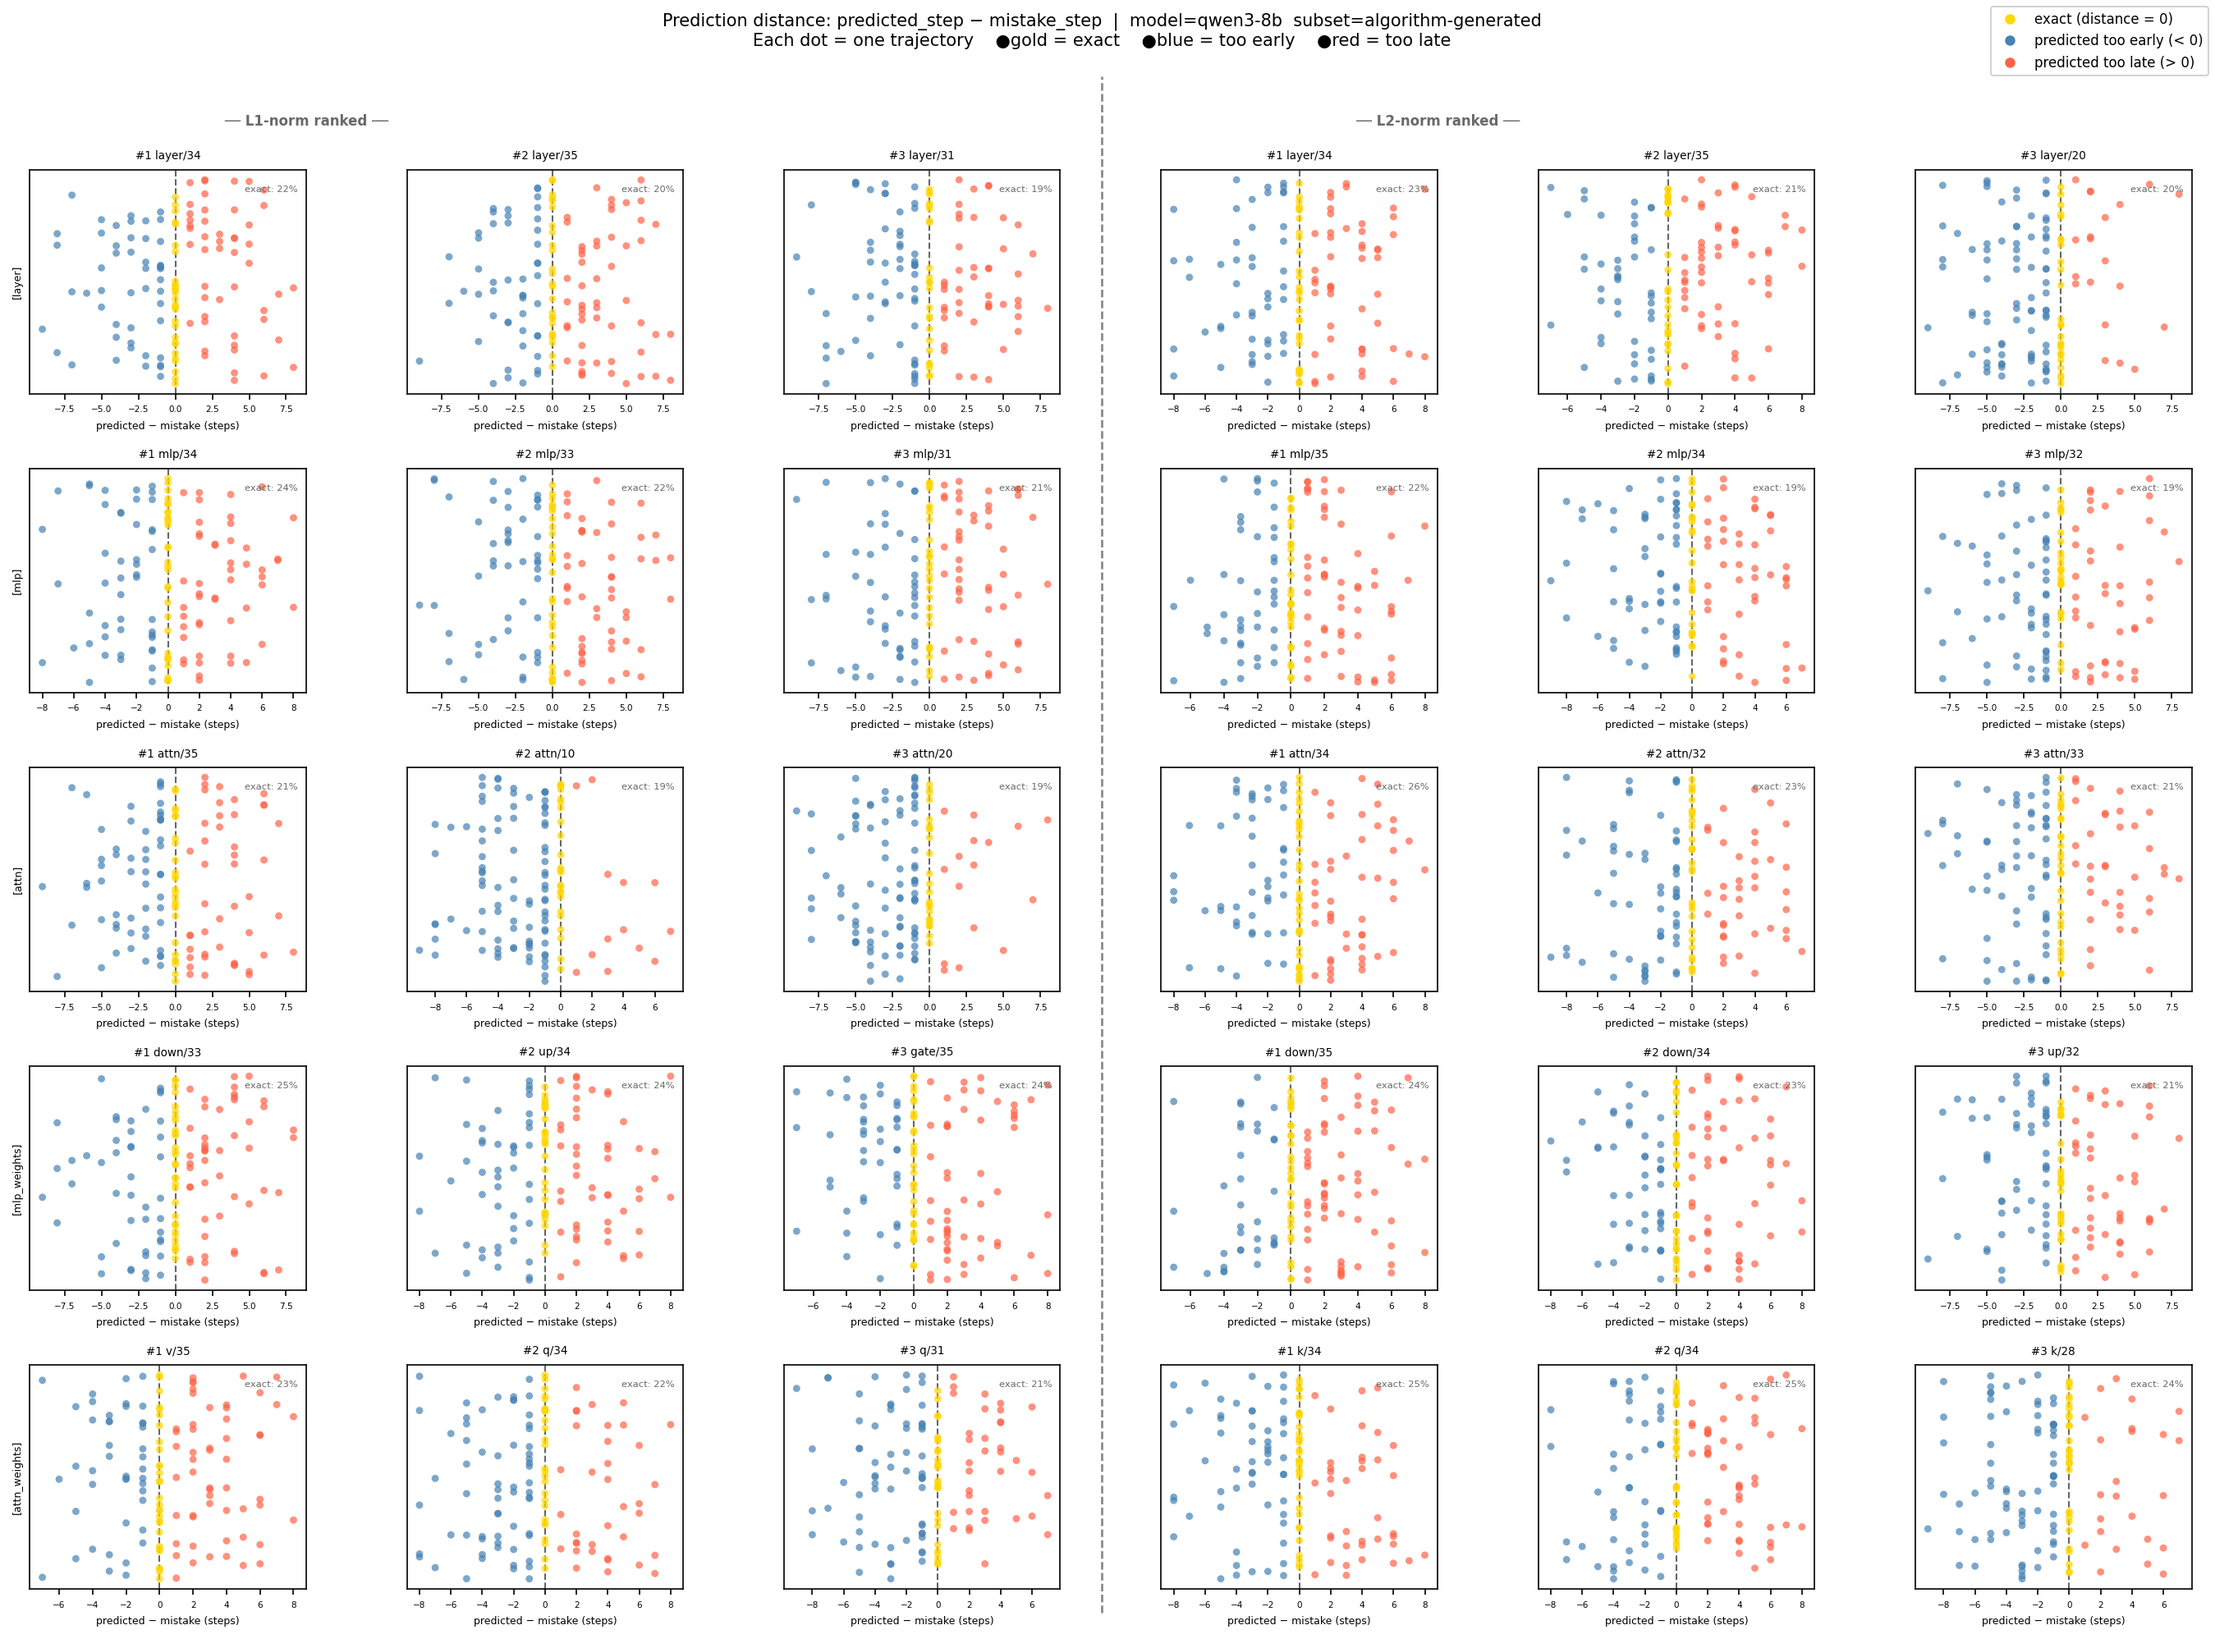
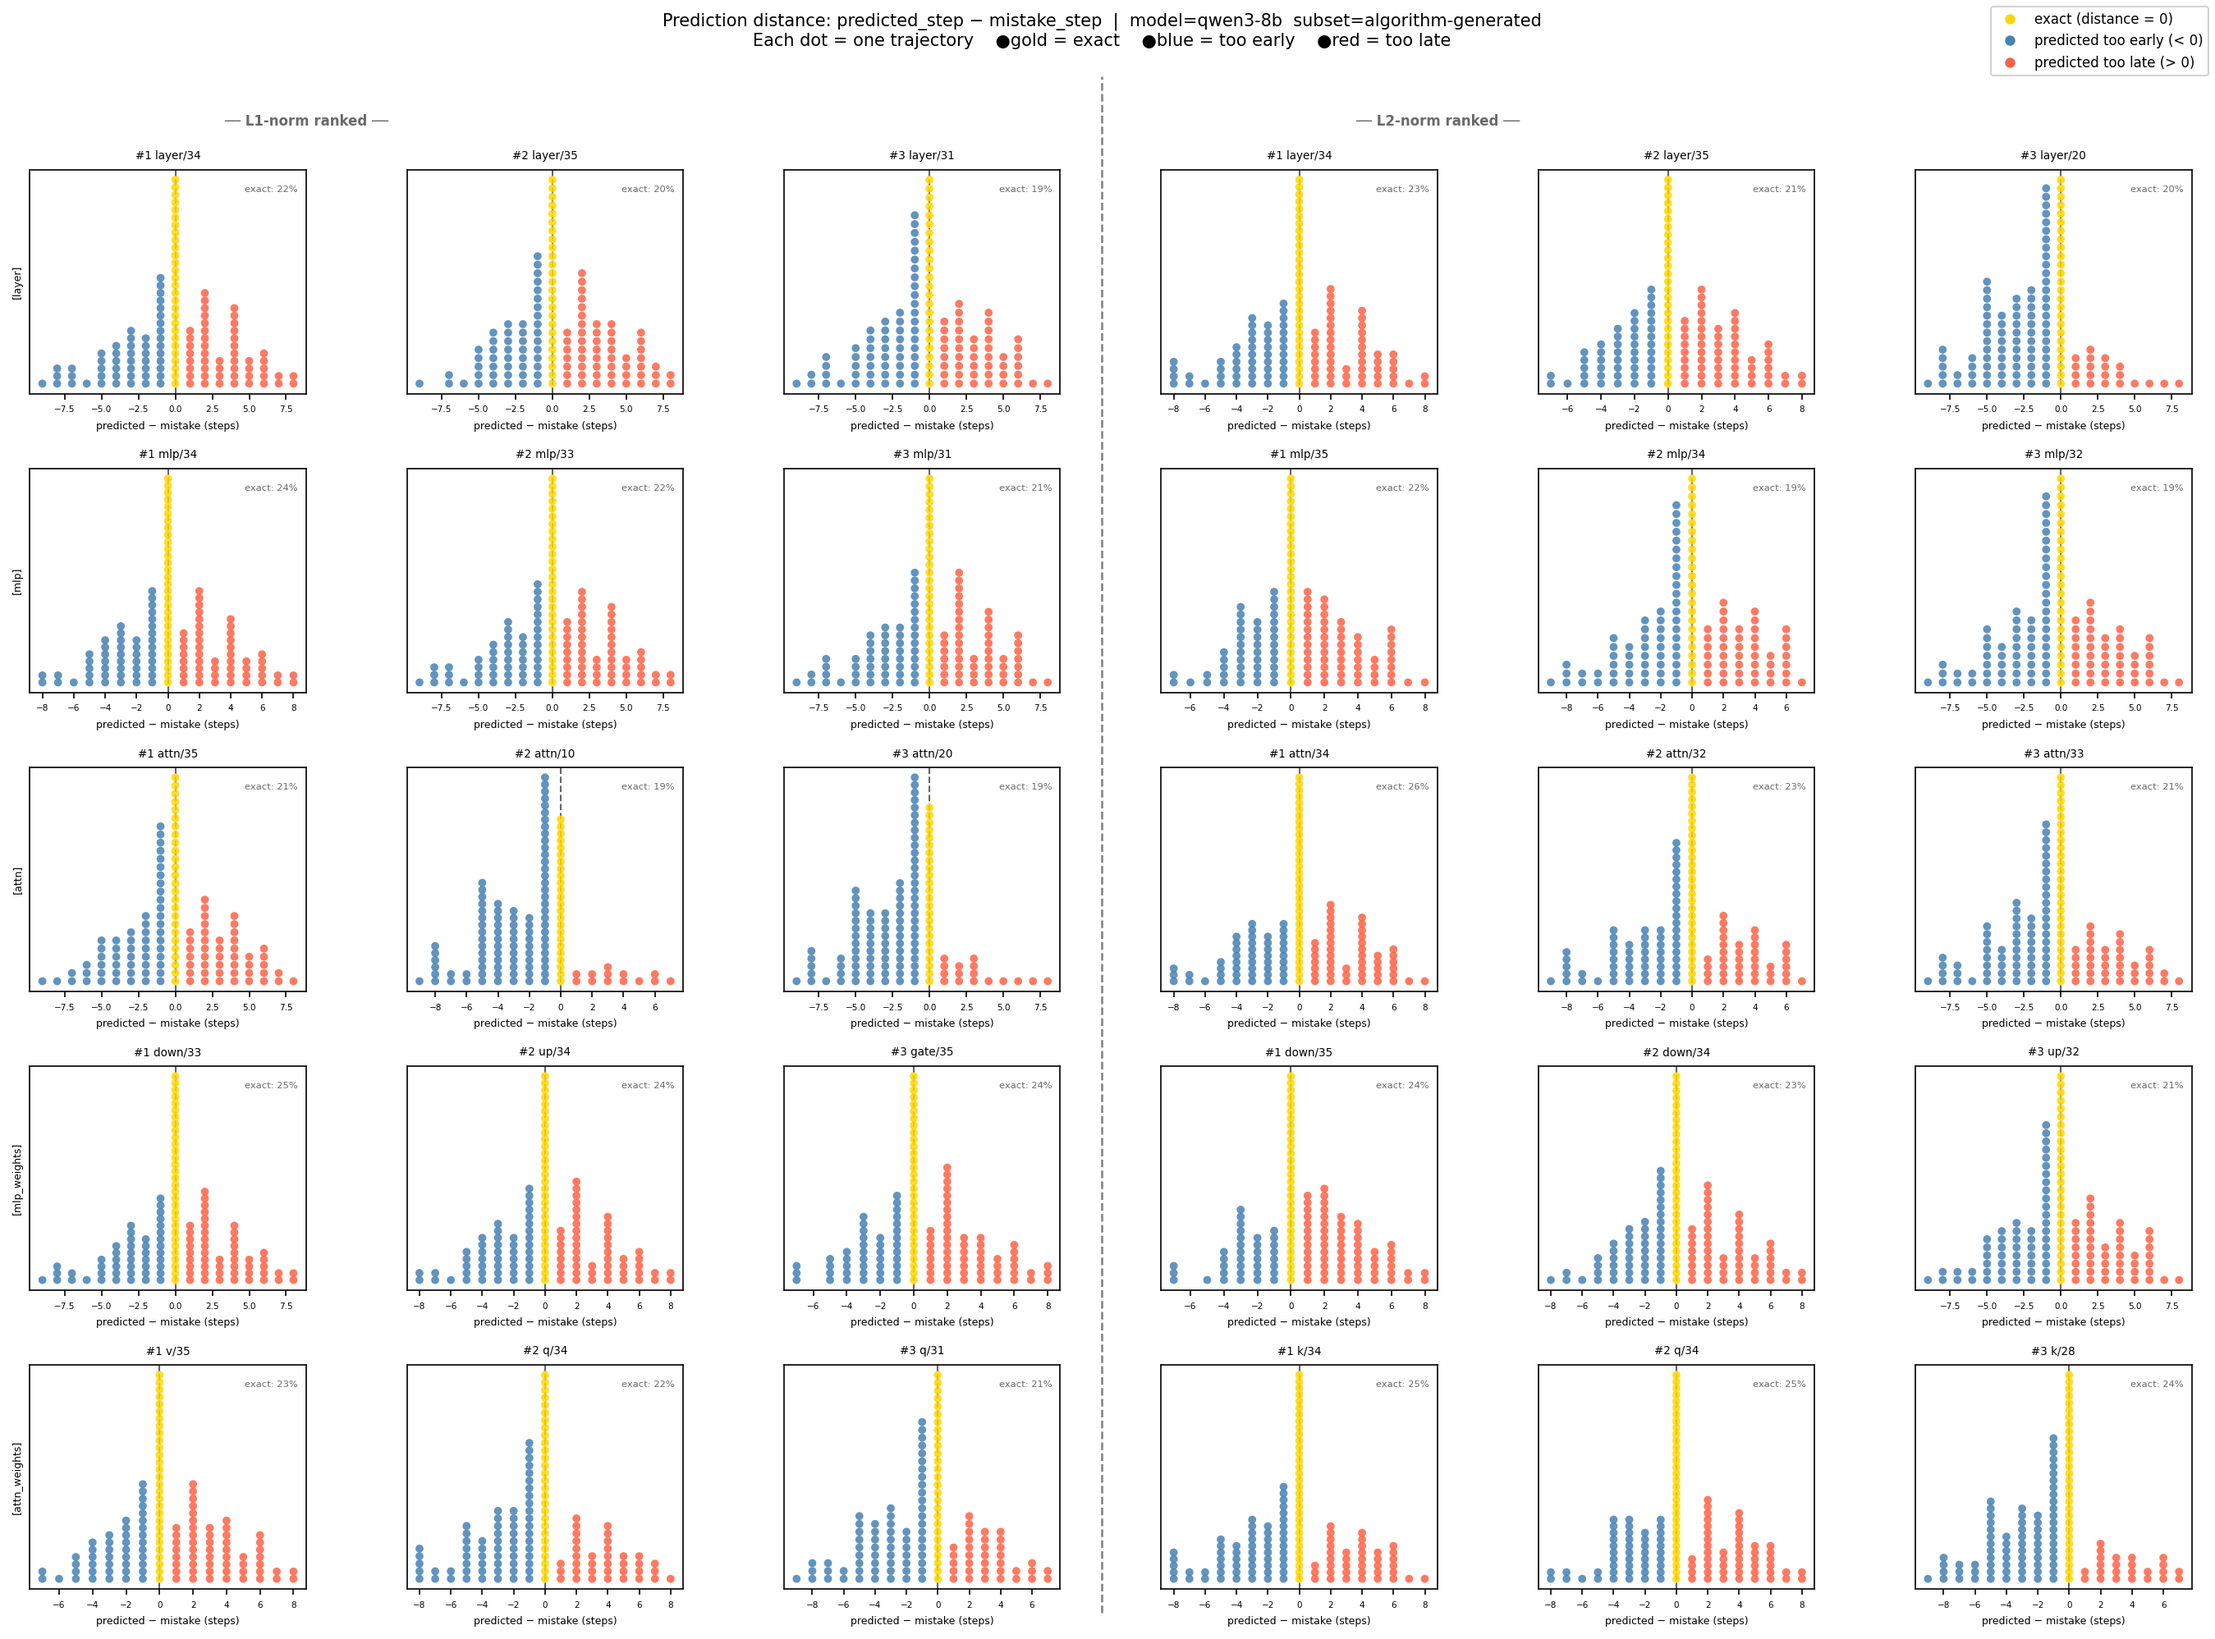
vvv

diff --git a/ablation/distance_dist.py b/ablation/distance_dist.py
@@ -16,7 +16,7 @@ from .ablate import build_strategies, load_trajectories, get_param_names_and_siz
 # ── constants ─────────────────────────────────────────────────────────────────
 STRATEGIES = ["layer", "mlp", "attn", "mlp_weights", "attn_weights"]
 NORM_TYPES = ["l1_norm", "l2_norm"]
-JITTER_SEED = 42
+
 
 
 # ── args ──────────────────────────────────────────────────────────────────────
@@ -120,8 +120,7 @@ def collect_distances(
                     for log in valid_logs
                 ])  # (n_logs, n_configs)
 
-                # ARGMIN over steps for each config → predicted step index
-                # we select the smaller scores!!!
+                # argmin over steps for each config → predicted step index
                 best_log_idx  = np.nanargmin(score_matrix, axis=0)   # (n_configs,)
                 predicted_steps = step_indices[best_log_idx]          # (n_configs,)
 
@@ -151,7 +150,6 @@ def make_figure(
     )
 
     norm_labels = {"l1_norm": "L1", "l2_norm": "L2"}
-    rng         = np.random.default_rng(JITTER_SEED)
 
     for ci, nt in enumerate(NORM_TYPES):
         for ki in range(k_top):
@@ -184,16 +182,26 @@ def make_figure(
                     ax.set_visible(False)
                     continue
 
-                n      = len(dists)
-                jitter = rng.uniform(-0.35, 0.35, size=n)
+                # ── stacked dot plot ──────────────────────────────────────
+                # For each unique x value, stack dots upward at y=0,1,2,...
+                from collections import Counter
+                counts   = Counter(dists.tolist())
+                xs_stack = []
+                ys_stack = []
+                cs_stack = []
 
-                # colour by sign: exact=gold, negative=blue, positive=red
-                colors = np.where(
-                    dists == 0, "gold",
-                    np.where(dists < 0, "steelblue", "tomato"),
-                )
+                for x_val, count in sorted(counts.items()):
+                    color = (
+                        "gold"      if x_val == 0  else
+                        "steelblue" if x_val <  0  else
+                        "tomato"
+                    )
+                    for level in range(count):
+                        xs_stack.append(x_val)
+                        ys_stack.append(level)
+                        cs_stack.append(color)
 
-                ax.scatter(dists, jitter, c=colors, s=18, alpha=0.7,
+                ax.scatter(xs_stack, ys_stack, c=cs_stack, s=22, alpha=0.85,
                            edgecolors="none", zorder=3)
 
                 # vertical reference at 0
